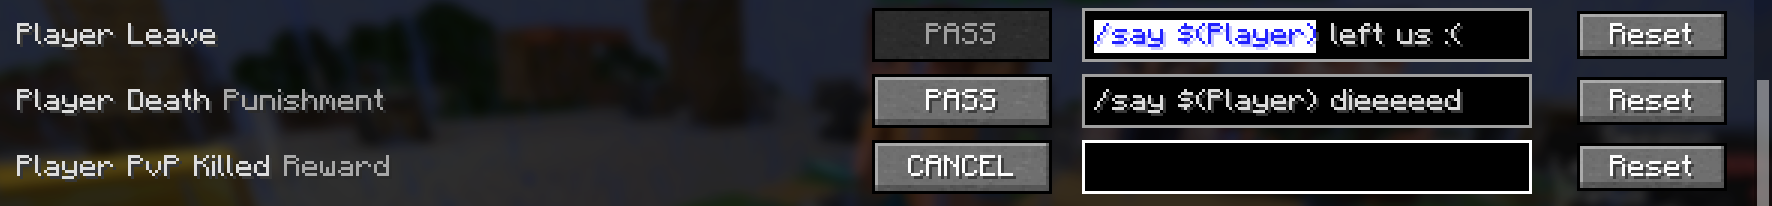
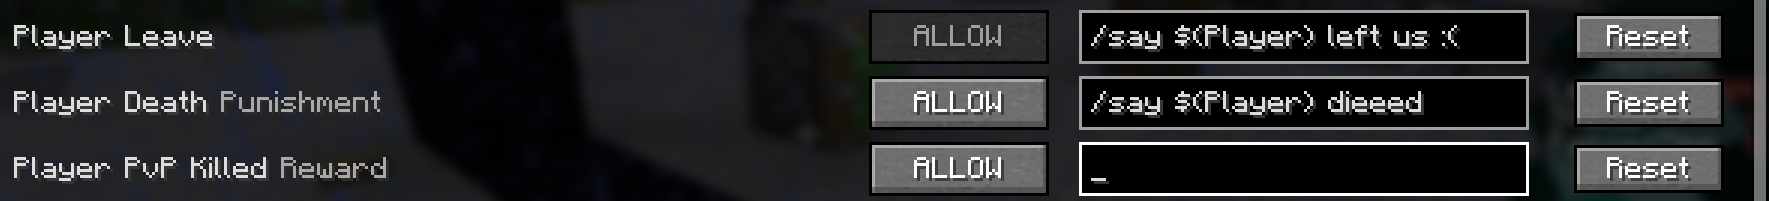
Renamed pass and cancel in events

diff --git a/docs/integration/datapacks.md b/docs/integration/datapacks.md
@@ -165,7 +165,7 @@ In the [config](/config/overview), you can find the Events tab, which has event 
 
 Every event entry has a button and a text field.
 
-The button controls whether the original event still happens (`PASS`), or whether it gets cancelled (`CANCEL`)
+The button controls whether the original event still happens (`ALLOW`), or whether it gets cancelled (`OVERRIDE`)
 
 ![img.png](/events.png)
 
@@ -197,7 +197,7 @@ When hovering over the event name, we see that `$(Killer)` and `$(Victim)` are a
 ![img.png](/events_death.png)
 
 :::info
-`CANCEL` signifies that the original event - Player Death Punishment - was cancelled. Meaning that no one loses any lives for dying.
+`OVERRIDE` signifies that the original event - Player Death Punishment - was cancelled. Meaning that no one loses any lives for dying.
 
 Notice that the command field is empty, which is fully valid too - no extra commands are ran.
 :::
